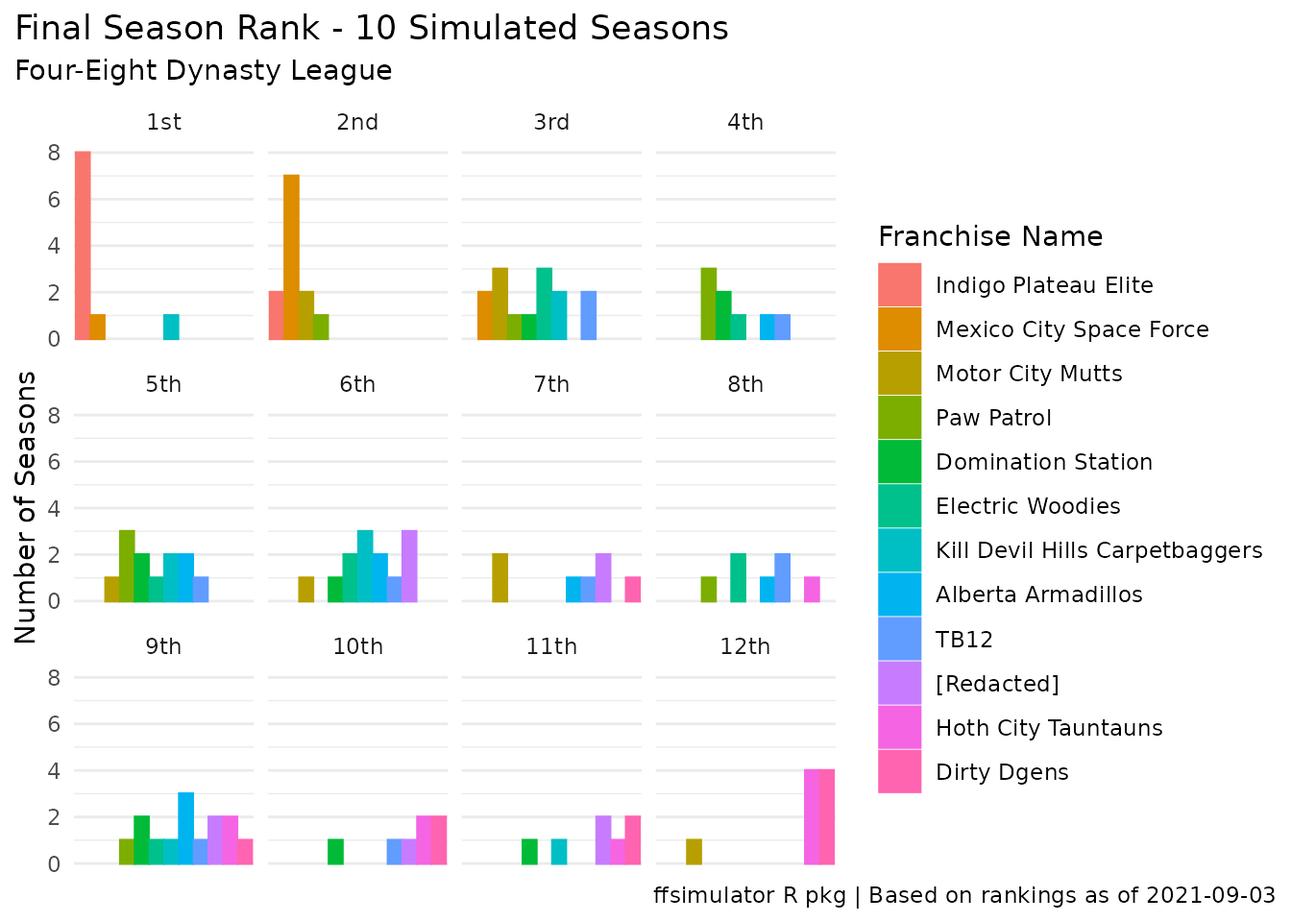
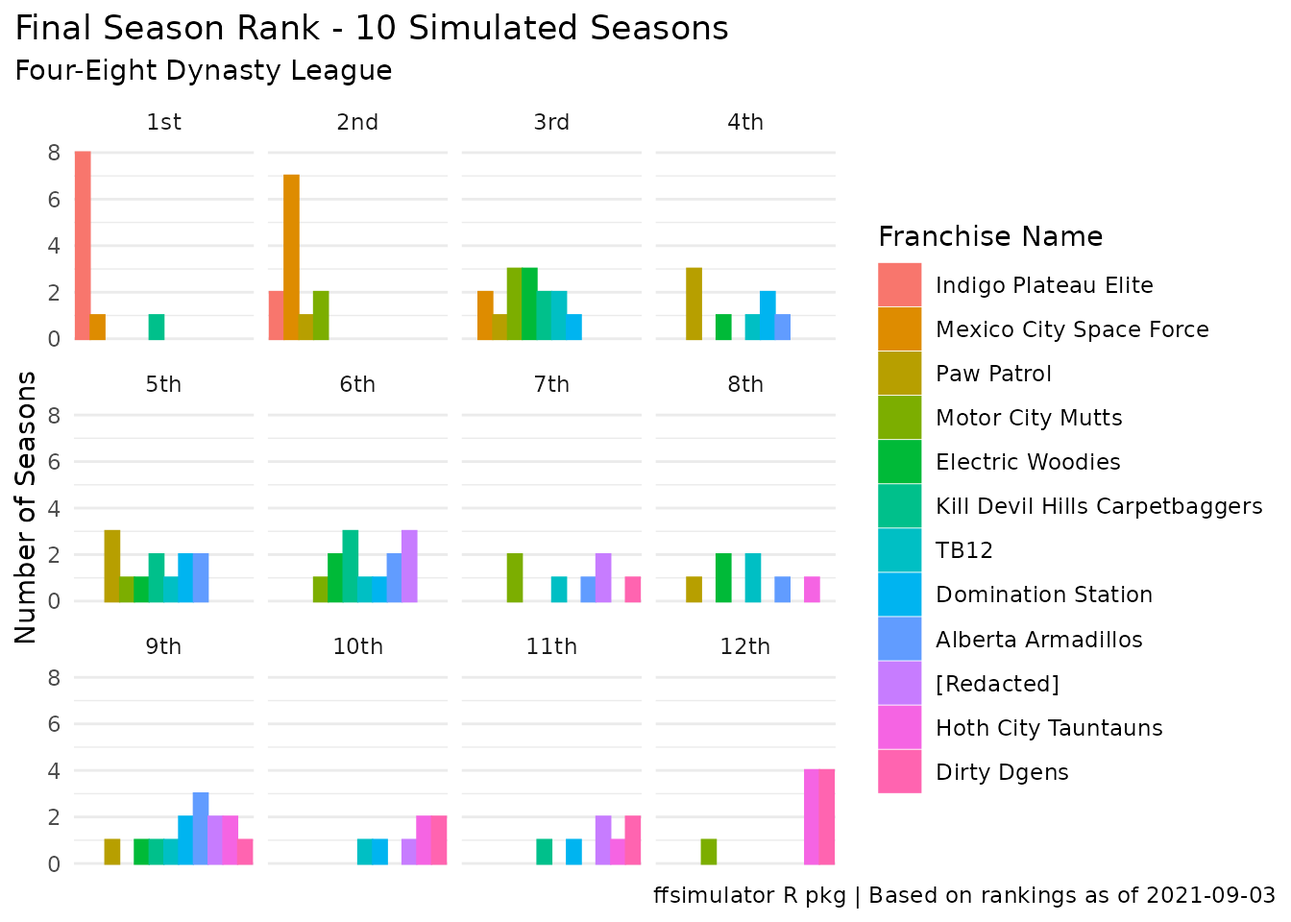
Built site for ffsimulator: 1.0.0.10@14f3c96

diff --git a/dev/articles/basic.html b/dev/articles/basic.html
@@ -161,7 +161,7 @@
 <div class="sourceCode" id="cb2"><pre class="downlit sourceCode r">
 <code class="sourceCode R"><span class="va">foureight_conn</span> <span class="op">&lt;-</span> <span class="fu"><a href="../reference/mfl_connect.html">mfl_connect</a></span><span class="op">(</span><span class="fl">2021</span>, <span class="fl">22627</span><span class="op">)</span>
 
-<span class="va">foureight_sim</span> <span class="op">&lt;-</span> <span class="fu"><a href="../reference/ff_simulate.html">ff_simulate</a></span><span class="op">(</span>conn <span class="op">=</span> <span class="va">foureight_conn</span>, n_seasons <span class="op">=</span> <span class="fl">25</span>, n_weeks <span class="op">=</span> <span class="fl">14</span><span class="op">)</span>
+<span class="va">foureight_sim</span> <span class="op">&lt;-</span> <span class="fu"><a href="../reference/ff_simulate.html">ff_simulate</a></span><span class="op">(</span>conn <span class="op">=</span> <span class="va">foureight_conn</span>, n_seasons <span class="op">=</span> <span class="fl">10</span>, n_weeks <span class="op">=</span> <span class="fl">14</span><span class="op">)</span>
 <span class="va">foureight_sim</span></code></pre></div>
 <pre><code>#&gt; &lt;ff_simulation: 10 simulated seasons of Four-Eight Dynasty League&gt;
 #&gt; List of 7
@@ -178,13 +178,13 @@
 #&gt;  - attr(*, "class")= chr "ff_simulation"</code></pre>
 <p>ffsimulator includes a few automatic plots that can be run on this ff_simulation object to get a quick sense of the simulation output:</p>
 <div class="sourceCode" id="cb4"><pre class="downlit sourceCode r">
-<code class="sourceCode R"><span class="fu"><a href="https://ggplot2.tidyverse.org/reference/autoplot.html">autoplot</a></span><span class="op">(</span><span class="va">foureight_sim</span><span class="op">)</span> <span class="co"># defaults to type = "wins"</span></code></pre></div>
+<code class="sourceCode R"><span class="fu"><a href="https://rdrr.io/r/graphics/plot.default.html">plot</a></span><span class="op">(</span><span class="va">foureight_sim</span><span class="op">)</span> <span class="co"># defaults to type = "wins"</span></code></pre></div>
 <p><img src="basic_files/figure-html/unnamed-chunk-4-1.png" width="672"></p>
 <div class="sourceCode" id="cb5"><pre class="downlit sourceCode r">
-<code class="sourceCode R"><span class="fu"><a href="https://ggplot2.tidyverse.org/reference/autoplot.html">autoplot</a></span><span class="op">(</span><span class="va">foureight_sim</span>, type <span class="op">=</span> <span class="st">"rank"</span><span class="op">)</span></code></pre></div>
+<code class="sourceCode R"><span class="fu"><a href="https://rdrr.io/r/graphics/plot.default.html">plot</a></span><span class="op">(</span><span class="va">foureight_sim</span>, type <span class="op">=</span> <span class="st">"rank"</span><span class="op">)</span></code></pre></div>
 <p><img src="basic_files/figure-html/unnamed-chunk-4-2.png" width="672"></p>
 <div class="sourceCode" id="cb6"><pre class="downlit sourceCode r">
-<code class="sourceCode R"><span class="fu"><a href="https://ggplot2.tidyverse.org/reference/autoplot.html">autoplot</a></span><span class="op">(</span><span class="va">foureight_sim</span>, type <span class="op">=</span> <span class="st">"points"</span><span class="op">)</span>
+<code class="sourceCode R"><span class="fu"><a href="https://rdrr.io/r/graphics/plot.default.html">plot</a></span><span class="op">(</span><span class="va">foureight_sim</span>, type <span class="op">=</span> <span class="st">"points"</span><span class="op">)</span>
 <span class="co">#&gt; Picking joint bandwidth of 7.68</span></code></pre></div>
 <p><img src="basic_files/figure-html/unnamed-chunk-4-3.png" width="672"></p>
 <p>You can also access the various component dataframes by name, for further analysis.</p>
@@ -211,42 +211,105 @@
 <p>The <code>summary_season</code> table is a season-level summary of all weeks within those seasons - any one of these seasons “could” theoretically be the outcome of the upcoming season!</p>
 <div class="sourceCode" id="cb8"><pre class="downlit sourceCode r">
 <code class="sourceCode R"><span class="va">foureight_sim</span><span class="op">$</span><span class="va">summary_season</span>
-<span class="co">#&gt; # A tibble: 120 × 12</span>
-<span class="co">#&gt;    season league_id franchise_id franchise_name h2h_wins h2h_winpct allplay_wins</span>
-<span class="co">#&gt;     &lt;dbl&gt; &lt;chr&gt;     &lt;chr&gt;        &lt;chr&gt;             &lt;int&gt;      &lt;dbl&gt;        &lt;dbl&gt;</span>
-<span class="co">#&gt;  1      1 22627     0001         Mexico City S…       12      0.857          125</span>
-<span class="co">#&gt;  2      1 22627     0002         Dirty Dgens           0      0               27</span>
-<span class="co">#&gt;  3      1 22627     0003         Alberta Armad…        5      0.357           63</span>
-<span class="co">#&gt;  4      1 22627     0004         Electric Wood…        7      0.5             71</span>
-<span class="co">#&gt;  5      1 22627     0005         Motor City Mu…       10      0.714           80</span>
-<span class="co">#&gt;  6      1 22627     0006         Hoth City Tau…        4      0.286           31</span>
-<span class="co">#&gt;  7      1 22627     0007         Paw Patrol            9      0.643           71</span>
-<span class="co">#&gt;  8      1 22627     0008         Domination St…        4      0.286           71</span>
-<span class="co">#&gt;  9      1 22627     0009         Kill Devil Hi…       10      0.714           91</span>
-<span class="co">#&gt; 10      1 22627     0010         [Redacted]            6      0.429           77</span>
-<span class="co">#&gt; # … with 110 more rows, and 5 more variables: allplay_games &lt;dbl&gt;,</span>
-<span class="co">#&gt; #   allplay_winpct &lt;dbl&gt;, points_for &lt;dbl&gt;, points_against &lt;dbl&gt;,</span>
-<span class="co">#&gt; #   potential_points &lt;dbl&gt;</span></code></pre></div>
+<span class="co">#&gt;      season league_id franchise_id                 franchise_name h2h_wins</span>
+<span class="co">#&gt;   1:      1     22627         0001        Mexico City Space Force       12</span>
+<span class="co">#&gt;   2:      1     22627         0002                    Dirty Dgens        0</span>
+<span class="co">#&gt;   3:      1     22627         0003             Alberta Armadillos        5</span>
+<span class="co">#&gt;   4:      1     22627         0004               Electric Woodies        7</span>
+<span class="co">#&gt;   5:      1     22627         0005               Motor City Mutts       10</span>
+<span class="co">#&gt;  ---                                                                      </span>
+<span class="co">#&gt; 116:     10     22627         0008             Domination Station        5</span>
+<span class="co">#&gt; 117:     10     22627         0009 Kill Devil Hills Carpetbaggers       12</span>
+<span class="co">#&gt; 118:     10     22627         0010                     [Redacted]        7</span>
+<span class="co">#&gt; 119:     10     22627         0011                           TB12        8</span>
+<span class="co">#&gt; 120:     10     22627         0012           Indigo Plateau Elite       11</span>
+<span class="co">#&gt;      h2h_winpct allplay_wins allplay_games allplay_winpct points_for</span>
+<span class="co">#&gt;   1:      0.857          125           154          0.812   2034.086</span>
+<span class="co">#&gt;   2:      0.000           27           154          0.175   1187.849</span>
+<span class="co">#&gt;   3:      0.357           63           154          0.409   1524.148</span>
+<span class="co">#&gt;   4:      0.500           71           154          0.461   1579.101</span>
+<span class="co">#&gt;   5:      0.714           80           154          0.519   1635.749</span>
+<span class="co">#&gt;  ---                                                                </span>
+<span class="co">#&gt; 116:      0.357           64           154          0.416   1460.263</span>
+<span class="co">#&gt; 117:      0.857           88           154          0.571   1629.849</span>
+<span class="co">#&gt; 118:      0.500           65           154          0.422   1490.238</span>
+<span class="co">#&gt; 119:      0.571          100           154          0.649   1727.765</span>
+<span class="co">#&gt; 120:      0.786          133           154          0.864   2066.457</span>
+<span class="co">#&gt;      points_against potential_points</span>
+<span class="co">#&gt;   1:       1622.343          2631.29</span>
+<span class="co">#&gt;   2:       1798.732          1502.92</span>
+<span class="co">#&gt;   3:       1543.897          1947.87</span>
+<span class="co">#&gt;   4:       1694.826          2064.90</span>
+<span class="co">#&gt;   5:       1519.509          2138.25</span>
+<span class="co">#&gt;  ---                                </span>
+<span class="co">#&gt; 116:       1555.725          1901.09</span>
+<span class="co">#&gt; 117:       1403.566          2075.04</span>
+<span class="co">#&gt; 118:       1469.356          1896.33</span>
+<span class="co">#&gt; 119:       1601.649          2215.87</span>
+<span class="co">#&gt; 120:       1485.318          2732.65</span></code></pre></div>
 <p>The <code>summary_week</code> table is a week-level summary of each team’s performance, including the optimal lineup that could have been played by the team and the randomly-generated lineup efficiency factor:</p>
 <div class="sourceCode" id="cb9"><pre class="downlit sourceCode r">
 <code class="sourceCode R"><span class="va">foureight_sim</span><span class="op">$</span><span class="va">summary_week</span>
-<span class="co">#&gt; # A tibble: 1,680 × 16</span>
-<span class="co">#&gt;    season season_week franchise_name   optimal_score lineup_efficien… team_score</span>
-<span class="co">#&gt;     &lt;dbl&gt;       &lt;dbl&gt; &lt;chr&gt;                    &lt;dbl&gt;            &lt;dbl&gt;      &lt;dbl&gt;</span>
-<span class="co">#&gt;  1      1           1 Mexico City Spa…         167.             0.691      115. </span>
-<span class="co">#&gt;  2      1           1 Dirty Dgens              146.             0.737      107. </span>
-<span class="co">#&gt;  3      1           1 Alberta Armadil…         108.             0.776       83.9</span>
-<span class="co">#&gt;  4      1           1 Electric Woodies         167.             0.793      132. </span>
-<span class="co">#&gt;  5      1           1 Motor City Mutts         149.             0.682      101. </span>
-<span class="co">#&gt;  6      1           1 Hoth City Taunt…          93.1            0.817       76.1</span>
-<span class="co">#&gt;  7      1           1 Paw Patrol               191.             0.701      134. </span>
-<span class="co">#&gt;  8      1           1 Domination Stat…         154.             0.776      120. </span>
-<span class="co">#&gt;  9      1           1 Kill Devil Hill…         184.             0.784      144. </span>
-<span class="co">#&gt; 10      1           1 [Redacted]               186.             0.772      144. </span>
-<span class="co">#&gt; # … with 1,670 more rows, and 10 more variables: opponent_score &lt;dbl&gt;,</span>
-<span class="co">#&gt; #   result &lt;chr&gt;, opponent_name &lt;chr&gt;, allplay_wins &lt;dbl&gt;, allplay_games &lt;dbl&gt;,</span>
-<span class="co">#&gt; #   allplay_pct &lt;dbl&gt;, league_id &lt;chr&gt;, franchise_id &lt;chr&gt;,</span>
-<span class="co">#&gt; #   optimal_player_id &lt;list&gt;, optimal_player_score &lt;list&gt;</span></code></pre></div>
+<span class="co">#&gt;       season season_week                 franchise_name optimal_score</span>
+<span class="co">#&gt;    1:      1           1        Mexico City Space Force        166.65</span>
+<span class="co">#&gt;    2:      1           1                    Dirty Dgens        145.65</span>
+<span class="co">#&gt;    3:      1           1             Alberta Armadillos        108.13</span>
+<span class="co">#&gt;    4:      1           1               Electric Woodies        166.51</span>
+<span class="co">#&gt;    5:      1           1               Motor City Mutts        148.63</span>
+<span class="co">#&gt;   ---                                                                </span>
+<span class="co">#&gt; 1676:     10          14             Domination Station        182.70</span>
+<span class="co">#&gt; 1677:     10          14 Kill Devil Hills Carpetbaggers        175.64</span>
+<span class="co">#&gt; 1678:     10          14                     [Redacted]        134.50</span>
+<span class="co">#&gt; 1679:     10          14                           TB12         64.17</span>
+<span class="co">#&gt; 1680:     10          14           Indigo Plateau Elite        205.99</span>
+<span class="co">#&gt;       lineup_efficiency team_score opponent_score result</span>
+<span class="co">#&gt;    1:             0.691    115.169         76.084      W</span>
+<span class="co">#&gt;    2:             0.737    107.286        132.011      L</span>
+<span class="co">#&gt;    3:             0.776     83.912        179.982      L</span>
+<span class="co">#&gt;    4:             0.793    132.011        107.286      W</span>
+<span class="co">#&gt;    5:             0.682    101.357        143.900      L</span>
+<span class="co">#&gt;   ---                                                   </span>
+<span class="co">#&gt; 1676:             0.740    135.286        113.904      W</span>
+<span class="co">#&gt; 1677:             0.795    139.638        100.899      W</span>
+<span class="co">#&gt; 1678:             0.847    113.904        135.286      L</span>
+<span class="co">#&gt; 1679:             0.778     49.902        131.653      L</span>
+<span class="co">#&gt; 1680:             0.760    156.605         79.371      W</span>
+<span class="co">#&gt;                        opponent_name allplay_wins allplay_games allplay_pct</span>
+<span class="co">#&gt;    1:            Hoth City Tauntauns            5            11       0.455</span>
+<span class="co">#&gt;    2:               Electric Woodies            3            11       0.273</span>
+<span class="co">#&gt;    3:           Indigo Plateau Elite            1            11       0.091</span>
+<span class="co">#&gt;    4:                    Dirty Dgens            7            11       0.636</span>
+<span class="co">#&gt;    5: Kill Devil Hills Carpetbaggers            2            11       0.182</span>
+<span class="co">#&gt;   ---                                                                      </span>
+<span class="co">#&gt; 1676:                     [Redacted]            8            11       0.727</span>
+<span class="co">#&gt; 1677:        Mexico City Space Force            9            11       0.818</span>
+<span class="co">#&gt; 1678:             Domination Station            5            11       0.455</span>
+<span class="co">#&gt; 1679:               Electric Woodies            0            11       0.000</span>
+<span class="co">#&gt; 1680:            Hoth City Tauntauns           11            11       1.000</span>
+<span class="co">#&gt;       league_id franchise_id                       optimal_player_id</span>
+<span class="co">#&gt;    1:     22627         0001 13592,14777,14081,15265,14805,13672,...</span>
+<span class="co">#&gt;    2:     22627         0002 12610,11747,13138,14803,15268,12212,...</span>
+<span class="co">#&gt;    3:     22627         0003 10700,11644,14075,14087,14806,15261,...</span>
+<span class="co">#&gt;    4:     22627         0004 10703,13589,13139,13319,13236,13880,...</span>
+<span class="co">#&gt;    5:     22627         0005  13593,9431,12171,13404,14072,12677,...</span>
+<span class="co">#&gt;   ---                                                               </span>
+<span class="co">#&gt; 1676:     22627         0008 11760,15240,12164,13604,13607,14798,...</span>
+<span class="co">#&gt; 1677:     22627         0009  14059,7836,11657,13108,13133,15505,...</span>
+<span class="co">#&gt; 1678:     22627         0010 12140,13116,14223,15254,13680,11671,...</span>
+<span class="co">#&gt; 1679:     22627         0011 15239,13131,13850,14828,13192,11232,...</span>
+<span class="co">#&gt; 1680:     22627         0012  14056,8062,11193,12626,13130,14852,...</span>
+<span class="co">#&gt;                          optimal_player_score</span>
+<span class="co">#&gt;    1: 17.76,18.54, 8.70,23.70,12.10,17.10,...</span>
+<span class="co">#&gt;    2:        8.8, 9.7,17.6, 7.7, 8.8,26.2,...</span>
+<span class="co">#&gt;    3: 10.42, 7.96,10.10, 8.60,17.50,22.30,...</span>
+<span class="co">#&gt;    4: 24.24,25.12, 0.00,21.40,15.25,13.40,...</span>
+<span class="co">#&gt;    5: 16.92,14.76,12.10,15.30,11.90,11.85,...</span>
+<span class="co">#&gt;   ---                                        </span>
+<span class="co">#&gt; 1676: 13.78,12.92, 9.40,22.30,20.30, 9.80,...</span>
+<span class="co">#&gt; 1677: 29.60,23.64,20.70,11.30,11.70,16.20,...</span>
+<span class="co">#&gt; 1678: 20.65,38.60, 4.00, 4.40, 7.85, 8.20,...</span>
+<span class="co">#&gt; 1679:  6.12, 8.20,14.70, 2.40, 2.75, 2.40,...</span>
+<span class="co">#&gt; 1680: 27.82,25.52, 7.20,18.30,20.70,33.00,...</span></code></pre></div>
 <p>The <code>roster_scores</code> and <code>projected_scores</code> tables both provide individual player-week level scores, with the difference being that the <code>roster_scores</code> table is attached to franchise rosters (and thus duplicates rows if there are multiple copies of players within the league).</p>
 <div class="sourceCode" id="cb10"><pre class="downlit sourceCode r">
 <code class="sourceCode R"><span class="va">foureight_sim</span><span class="op">$</span><span class="va">roster_scores</span>

diff --git a/dev/reference/ff_simulate_week.html b/dev/reference/ff_simulate_week.html
@@ -248,7 +248,7 @@
     <pre class="examples"><div class='input'><span class='co'># \donttest{</span>
 <span class='va'>conn</span> <span class='op'>&lt;-</span> <span class='fu'><a href='mfl_connect.html'>mfl_connect</a></span><span class='op'>(</span><span class='fl'>2021</span>, <span class='fl'>22627</span><span class='op'>)</span>
 <span class='fu'>ff_simulate_week</span><span class='op'>(</span><span class='va'>conn</span>, n <span class='op'>=</span> <span class='fl'>1000</span>, actual_schedule <span class='op'>=</span> <span class='cn'>TRUE</span><span class='op'>)</span>
-</div><div class='output co'>#&gt; <span class='message'>── Starting simulation 2021-09-06 18:54:39 ─────────────────────────────────────</span></div><div class='output co'>#&gt; <span class='message'><span style='color: #00BBBB;'>ℹ</span> Importing data</span></div><div class='output co'>#&gt; <span class='message'><span style='color: #00BB00;'>✔</span> Importing data...done! 2021-09-06 18:54:49</span></div><div class='output co'>#&gt; </div><div class='output co'>#&gt; <span class='message'><span style='color: #00BBBB;'>ℹ</span> Generating Projections</span></div><div class='output co'>#&gt; <span class='message'><span style='color: #00BB00;'>✔</span> Generating Projections...done! 2021-09-06 18:54:56</span></div><div class='output co'>#&gt; </div><div class='output co'>#&gt; <span class='message'><span style='color: #00BBBB;'>ℹ</span> Calculating Roster Scores</span></div><div class='output co'>#&gt; <span class='message'><span style='color: #00BB00;'>✔</span> Calculating Roster Scores...done! 2021-09-06 18:54:57</span></div><div class='output co'>#&gt; </div><div class='output co'>#&gt; <span class='message'><span style='color: #00BBBB;'>ℹ</span> Optimizing Lineups</span></div><div class='output co'>#&gt; <span class='message'><span style='color: #00BB00;'>✔</span> Optimizing Lineups...done! 2021-09-06 18:55:07</span></div><div class='output co'>#&gt; </div><div class='output co'>#&gt; <span class='message'><span style='color: #00BBBB;'>ℹ</span> Building Schedules</span></div><div class='output co'>#&gt; <span class='message'><span style='color: #00BB00;'>✔</span> Building Schedules...done! 2021-09-06 18:55:07</span></div><div class='output co'>#&gt; </div><div class='output co'>#&gt; <span class='message'><span style='color: #00BBBB;'>ℹ</span> Summarising Simulation Data</span></div><div class='output co'>#&gt; <span class='message'><span style='color: #00BB00;'>✔</span> Summarising Simulation Data...done! 2021-09-06 18:55:08</span></div><div class='output co'>#&gt; </div><div class='output co'>#&gt; <span class='message'>── Simulation complete! 2021-09-06 18:55:08 ────────────────────────────────────</span></div><div class='output co'>#&gt; &lt;ff_simulation_week: 1000 simulated weeks of Four-Eight Dynasty League&gt;
+</div><div class='output co'>#&gt; <span class='message'>── Starting simulation 2021-09-06 20:13:01 ─────────────────────────────────────</span></div><div class='output co'>#&gt; <span class='message'><span style='color: #00BBBB;'>ℹ</span> Importing data</span></div><div class='output co'>#&gt; <span class='message'><span style='color: #00BB00;'>✔</span> Importing data...done! 2021-09-06 20:13:10</span></div><div class='output co'>#&gt; </div><div class='output co'>#&gt; <span class='message'><span style='color: #00BBBB;'>ℹ</span> Generating Projections</span></div><div class='output co'>#&gt; <span class='message'><span style='color: #00BB00;'>✔</span> Generating Projections...done! 2021-09-06 20:13:15</span></div><div class='output co'>#&gt; </div><div class='output co'>#&gt; <span class='message'><span style='color: #00BBBB;'>ℹ</span> Calculating Roster Scores</span></div><div class='output co'>#&gt; <span class='message'><span style='color: #00BB00;'>✔</span> Calculating Roster Scores...done! 2021-09-06 20:13:16</span></div><div class='output co'>#&gt; </div><div class='output co'>#&gt; <span class='message'><span style='color: #00BBBB;'>ℹ</span> Optimizing Lineups</span></div><div class='output co'>#&gt; <span class='message'><span style='color: #00BB00;'>✔</span> Optimizing Lineups...done! 2021-09-06 20:13:25</span></div><div class='output co'>#&gt; </div><div class='output co'>#&gt; <span class='message'><span style='color: #00BBBB;'>ℹ</span> Building Schedules</span></div><div class='output co'>#&gt; <span class='message'><span style='color: #00BB00;'>✔</span> Building Schedules...done! 2021-09-06 20:13:25</span></div><div class='output co'>#&gt; </div><div class='output co'>#&gt; <span class='message'><span style='color: #00BBBB;'>ℹ</span> Summarising Simulation Data</span></div><div class='output co'>#&gt; <span class='message'><span style='color: #00BB00;'>✔</span> Summarising Simulation Data...done! 2021-09-06 20:13:25</span></div><div class='output co'>#&gt; </div><div class='output co'>#&gt; <span class='message'>── Simulation complete! 2021-09-06 20:13:25 ────────────────────────────────────</span></div><div class='output co'>#&gt; &lt;ff_simulation_week: 1000 simulated weeks of Four-Eight Dynasty League&gt;
 #&gt; List of 7
 #&gt;  $ summary_simulation: tibble [12 × 11] (S3: tbl_df/tbl/data.frame)
 #&gt;  $ summary_season    : tibble [12 × 12] (S3: tbl_df/tbl/data.frame)

diff --git a/dev/reference/ff_simulate.html b/dev/reference/ff_simulate.html
@@ -258,7 +258,7 @@
     <pre class="examples"><div class='input'><span class='co'># \donttest{</span>
 <span class='va'>conn</span> <span class='op'>&lt;-</span> <span class='fu'><a href='mfl_connect.html'>mfl_connect</a></span><span class='op'>(</span><span class='fl'>2021</span>, <span class='fl'>22627</span><span class='op'>)</span>
 <span class='fu'>ff_simulate</span><span class='op'>(</span><span class='va'>conn</span>, n_seasons <span class='op'>=</span> <span class='fl'>25</span><span class='op'>)</span>
-</div><div class='output co'>#&gt; <span class='message'>── Starting simulation 2021-09-06 18:54:05 ─────────────────────────────────────</span></div><div class='output co'>#&gt; <span class='message'><span style='color: #00BBBB;'>ℹ</span> Importing data</span></div><div class='output co'>#&gt; <span class='message'><span style='color: #00BB00;'>✔</span> Importing data...done! 2021-09-06 18:54:34</span></div><div class='output co'>#&gt; </div><div class='output co'>#&gt; <span class='message'><span style='color: #00BBBB;'>ℹ</span> Generating Projections</span></div><div class='output co'>#&gt; <span class='message'><span style='color: #00BB00;'>✔</span> Generating Projections...done! 2021-09-06 18:54:35</span></div><div class='output co'>#&gt; </div><div class='output co'>#&gt; <span class='message'><span style='color: #00BBBB;'>ℹ</span> Calculating Roster Scores</span></div><div class='output co'>#&gt; <span class='message'><span style='color: #00BB00;'>✔</span> Calculating Roster Scores...done! 2021-09-06 18:54:35</span></div><div class='output co'>#&gt; </div><div class='output co'>#&gt; <span class='message'><span style='color: #00BBBB;'>ℹ</span> Optimizing Lineups</span></div><div class='output co'>#&gt; <span class='message'><span style='color: #00BB00;'>✔</span> Optimizing Lineups...done! 2021-09-06 18:54:39</span></div><div class='output co'>#&gt; </div><div class='output co'>#&gt; <span class='message'><span style='color: #00BBBB;'>ℹ</span> Building Schedules</span></div><div class='output co'>#&gt; <span class='message'><span style='color: #00BB00;'>✔</span> Building Schedules...done! 2021-09-06 18:54:39</span></div><div class='output co'>#&gt; </div><div class='output co'>#&gt; <span class='message'><span style='color: #00BBBB;'>ℹ</span> Summarising Simulation Data</span></div><div class='output co'>#&gt; <span class='message'><span style='color: #00BB00;'>✔</span> Summarising Simulation Data...done! 2021-09-06 18:54:39</span></div><div class='output co'>#&gt; </div><div class='output co'>#&gt; <span class='message'>── Simulation complete! 2021-09-06 18:54:39 ────────────────────────────────────</span></div><div class='output co'>#&gt; &lt;ff_simulation: 25 simulated seasons of Four-Eight Dynasty League&gt;
+</div><div class='output co'>#&gt; <span class='message'>── Starting simulation 2021-09-06 20:12:29 ─────────────────────────────────────</span></div><div class='output co'>#&gt; <span class='message'><span style='color: #00BBBB;'>ℹ</span> Importing data</span></div><div class='output co'>#&gt; <span class='message'><span style='color: #00BB00;'>✔</span> Importing data...done! 2021-09-06 20:12:57</span></div><div class='output co'>#&gt; </div><div class='output co'>#&gt; <span class='message'><span style='color: #00BBBB;'>ℹ</span> Generating Projections</span></div><div class='output co'>#&gt; <span class='message'><span style='color: #00BB00;'>✔</span> Generating Projections...done! 2021-09-06 20:12:57</span></div><div class='output co'>#&gt; </div><div class='output co'>#&gt; <span class='message'><span style='color: #00BBBB;'>ℹ</span> Calculating Roster Scores</span></div><div class='output co'>#&gt; <span class='message'><span style='color: #00BB00;'>✔</span> Calculating Roster Scores...done! 2021-09-06 20:12:57</span></div><div class='output co'>#&gt; </div><div class='output co'>#&gt; <span class='message'><span style='color: #00BBBB;'>ℹ</span> Optimizing Lineups</span></div><div class='output co'>#&gt; <span class='message'><span style='color: #00BB00;'>✔</span> Optimizing Lineups...done! 2021-09-06 20:13:01</span></div><div class='output co'>#&gt; </div><div class='output co'>#&gt; <span class='message'><span style='color: #00BBBB;'>ℹ</span> Building Schedules</span></div><div class='output co'>#&gt; <span class='message'><span style='color: #00BB00;'>✔</span> Building Schedules...done! 2021-09-06 20:13:01</span></div><div class='output co'>#&gt; </div><div class='output co'>#&gt; <span class='message'><span style='color: #00BBBB;'>ℹ</span> Summarising Simulation Data</span></div><div class='output co'>#&gt; <span class='message'><span style='color: #00BB00;'>✔</span> Summarising Simulation Data...done! 2021-09-06 20:13:01</span></div><div class='output co'>#&gt; </div><div class='output co'>#&gt; <span class='message'>── Simulation complete! 2021-09-06 20:13:01 ────────────────────────────────────</span></div><div class='output co'>#&gt; &lt;ff_simulation: 25 simulated seasons of Four-Eight Dynasty League&gt;
 #&gt; List of 7
 #&gt;  $ summary_simulation: tibble [12 × 11] (S3: tbl_df/tbl/data.frame)
 #&gt;  $ summary_season    : tibble [300 × 12] (S3: tbl_df/tbl/data.frame)

diff --git a/dev/reference/assert_columns.html b/dev/reference/assert_columns.html
@@ -49,8 +49,7 @@
   
 
 <meta property="og:title" content="Check that dataframe has x column names — assert_columns" />
-<meta property="og:description" content="Check that dataframe has x column names
-Check that dataframe has x column names" />
+<meta property="og:description" content="Check that dataframe has x column names" />
 <meta property="og:image" content="https://ffsimulator.ffverse.com/reference/figures/logo.png" />
 <meta property="og:image:alt" content="ffsimulator - An R Package For Simulating Fantasy Football Seasons" />
 <meta name="twitter:card" content="summary" />
@@ -181,18 +180,15 @@ Check that dataframe has x column names" />
   <div class="col-md-9 contents">
     <div class="page-header">
     <h1>Check that dataframe has x column names</h1>
-    <small class="dont-index">Source: <a href='https://github.com/ffverse/ffsimulator/blob/master/R/utils-assert.R'><code>R/utils-assert.R</code></a>, <a href='https://github.com/ffverse/ffsimulator/blob/master/R/utils.R'><code>R/utils.R</code></a></small>
+    <small class="dont-index">Source: <a href='https://github.com/ffverse/ffsimulator/blob/master/R/utils-assert.R'><code>R/utils-assert.R</code></a></small>
     <div class="hidden name"><code>assert_columns.Rd</code></div>
     </div>
 
     <div class="ref-description">
     <p>Check that dataframe has x column names</p>
-<p>Check that dataframe has x column names</p>
     </div>
 
-    <pre class="usage"><span class='fu'>assert_columns</span><span class='op'>(</span><span class='va'>dataframe</span>, <span class='va'>required_columns</span><span class='op'>)</span>
-
-<span class='fu'>assert_columns</span><span class='op'>(</span><span class='va'>dataframe</span>, <span class='va'>required_columns</span><span class='op'>)</span></pre>
+    <pre class="usage"><span class='fu'>assert_columns</span><span class='op'>(</span><span class='va'>dataframe</span>, <span class='va'>required_columns</span><span class='op'>)</span></pre>
 
     <h2 class="hasAnchor" id="arguments"><a class="anchor" href="#arguments"></a>Arguments</h2>
     <table class="ref-arguments">
@@ -210,7 +206,6 @@ Check that dataframe has x column names" />
     <h2 class="hasAnchor" id="value"><a class="anchor" href="#value"></a>Value</h2>
 
     <p>silent if ok or else an error if something is missing.</p>
-<p>silent if ok or else an error if something is missing.</p>
 
   </div>
   <div class="col-md-3 hidden-xs hidden-sm" id="pkgdown-sidebar">

diff --git a/dev/reference/ffs_copy_template.html b/dev/reference/ffs_copy_template.html
@@ -220,7 +220,7 @@
 
 <span class='va'>tmp</span> <span class='op'>&lt;-</span> <span class='fu'><a href='https://rdrr.io/r/base/tempfile.html'>tempfile</a></span><span class='op'>(</span><span class='op'>)</span>
 <span class='fu'>ffs_copy_template</span><span class='op'>(</span><span class='va'>tmp</span><span class='op'>)</span>
-</div><div class='output co'>#&gt; <span class='message'><span style='color: #00BB00;'>✔</span> Successfully copied template to /tmp/Rtmpuq1JAW/file2686f76a89d!</span></div><div class='input'><span class='co'># }</span>
+</div><div class='output co'>#&gt; <span class='message'><span style='color: #00BB00;'>✔</span> Successfully copied template to /tmp/RtmpzqwydG/file26d26130196!</span></div><div class='input'><span class='co'># }</span>
 </div></pre>
   </div>
   <div class="col-md-3 hidden-xs hidden-sm" id="pkgdown-sidebar">
